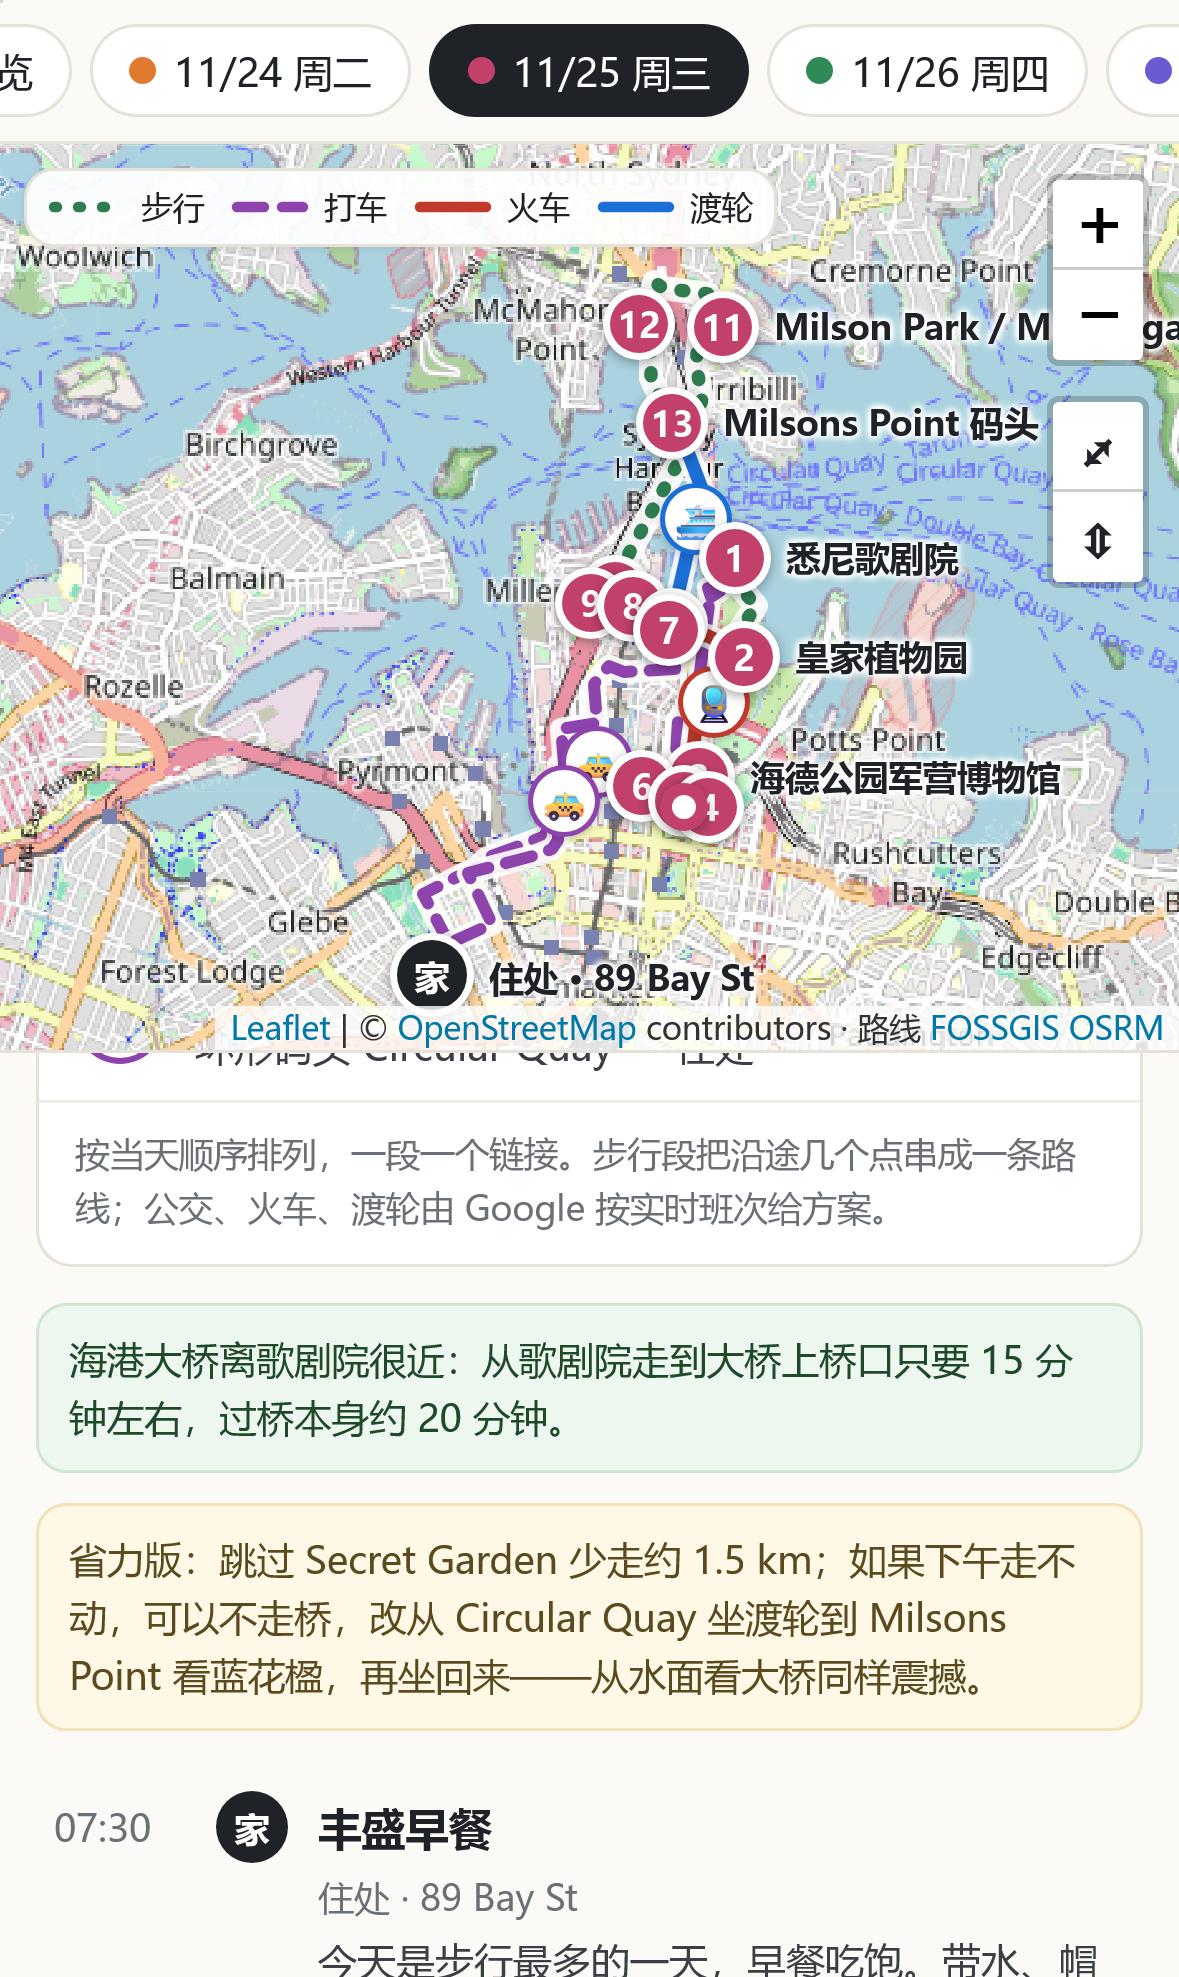
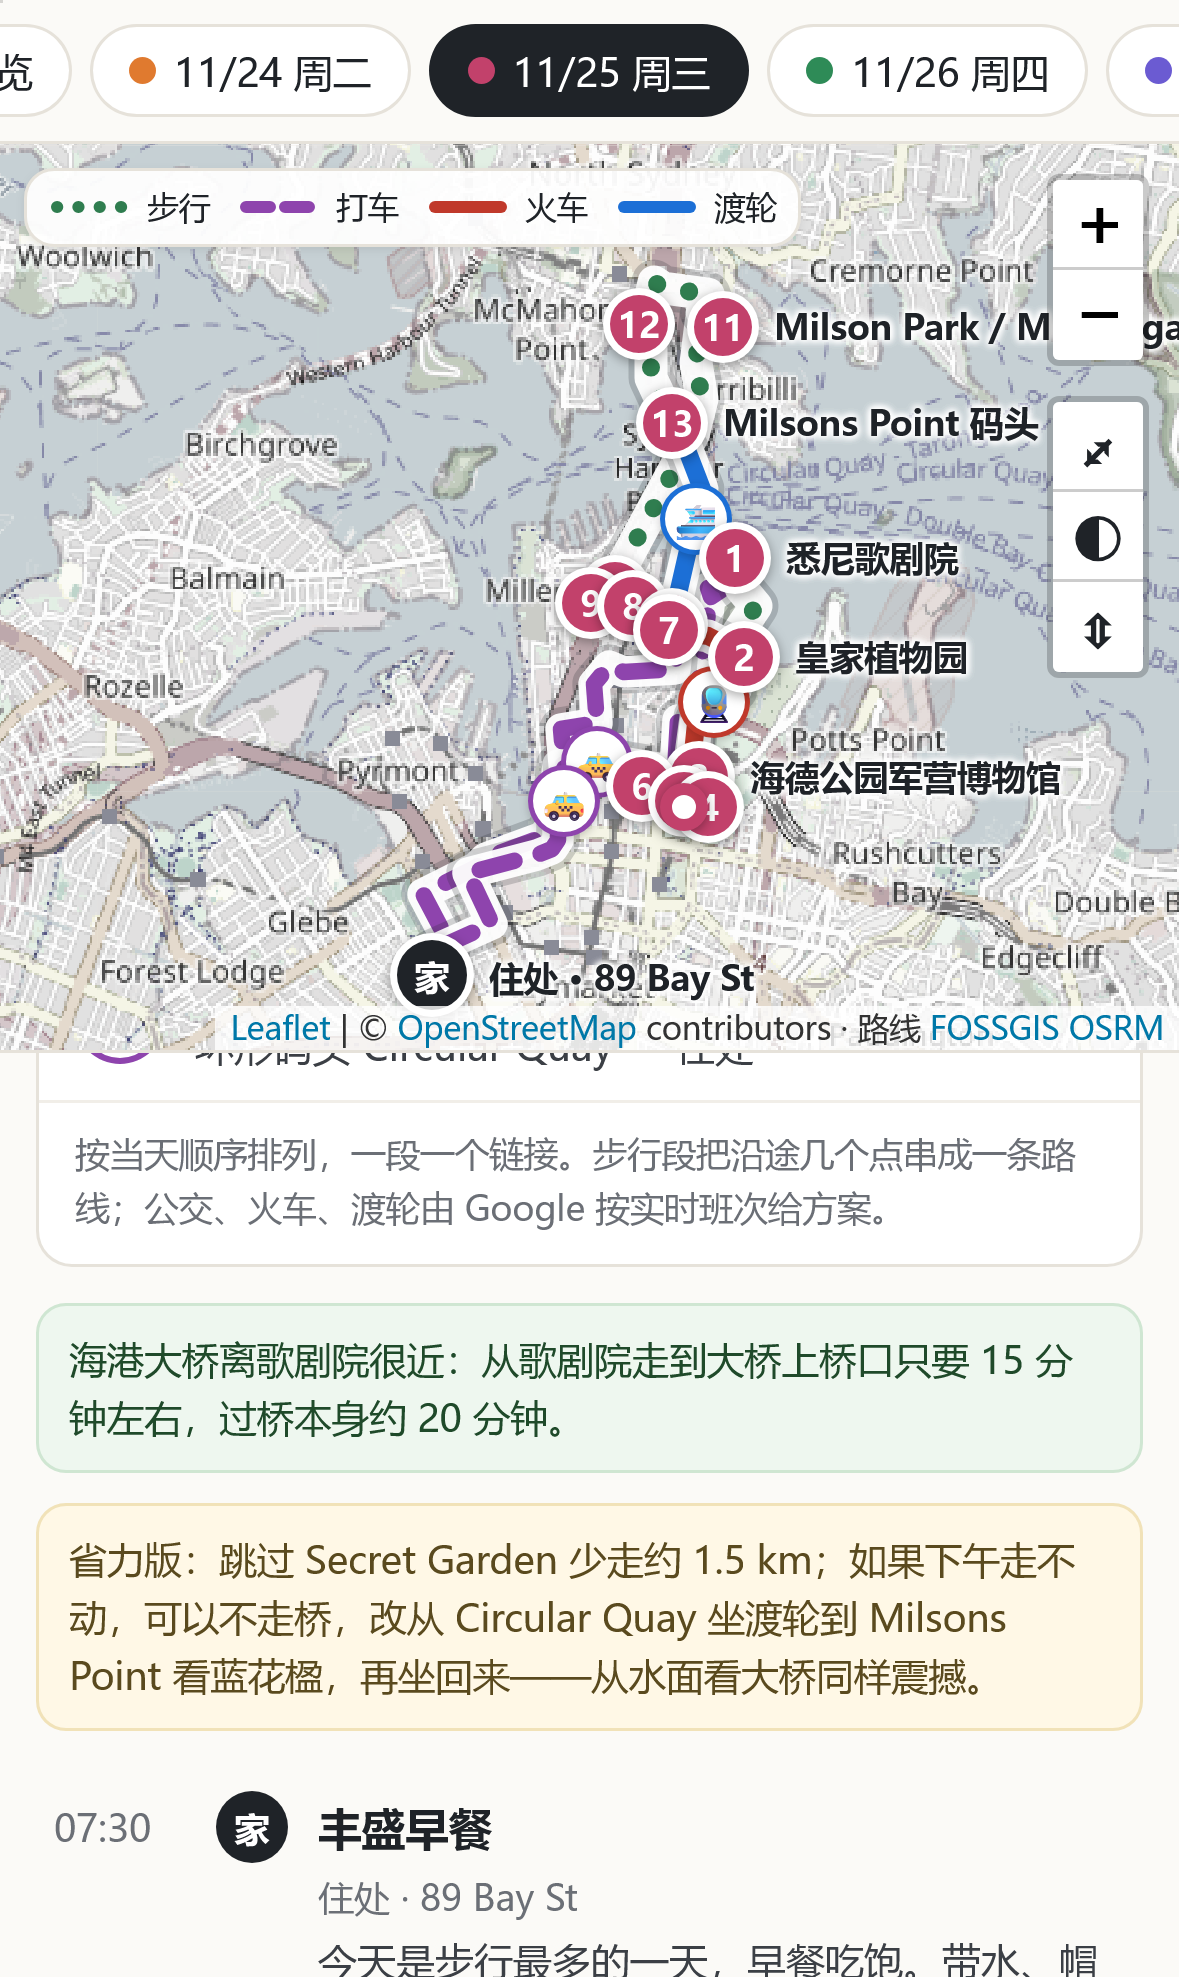
Make routes stand out: faded base map, casing and halo on routes
The OSM base map is busy, so routes were hard to follow. The base map
is now desaturated by default (a toggle restores the original colours
and is remembered per device), and every route is drawn as a dark halo,
a white casing and a thicker coloured line with larger walking dots.
Selecting a leg dims the others including their casings.

diff --git a/app.js b/app.js
@@ -40,17 +40,22 @@ const map=L.map(mapEl,{
   zoomSnap:.25,zoomDelta:1,wheelPxPerZoomLevel:90,tapTolerance:12,bounceAtZoomLimits:false
 }).setView([-33.872,151.205],13);
 map.attributionControl.setPrefix('<a href="https://leafletjs.com" target="_blank" rel="noopener">Leaflet</a>');
+// 底图默认淡化（降低饱和度和对比度），让路线更醒目；右上角 ◐ 按钮可切回原色，选择记在本机
+const lsGet=k=>{try{return localStorage.getItem(k)}catch(e){return null}};
+const lsSet=(k,v)=>{try{localStorage.setItem(k,v)}catch(e){}};
+mapwrap.classList.toggle("vivid",lsGet("basemap")==="vivid");
 L.tileLayer("https://tile.openstreetmap.org/{z}/{x}/{y}.png",{
-  maxZoom:19,
+  maxZoom:19,className:"basemap",
   attribution:'© <a href="https://www.openstreetmap.org/copyright" target="_blank" rel="noopener">OpenStreetMap</a> contributors · 路线 <a href="https://routing.openstreetmap.de/about.html" target="_blank" rel="noopener">FOSSGIS OSRM</a>'
 }).addTo(map);
 L.control.zoom({position:"topright",zoomInTitle:"放大",zoomOutTitle:"缩小"}).addTo(map);
 // 自定义按钮：显示当天全部 / 展开地图（手机）
 const Btns=L.Control.extend({options:{position:"topright"},onAdd(){
   const c=L.DomUtil.create("div","leaflet-bar");
-  c.innerHTML=`<a href="#" class="ctl ctl-fit" title="显示当天全部" aria-label="显示当天全部" role="button">⤢</a><a href="#" class="ctl ctl-exp" title="展开/收起地图" aria-label="展开地图" role="button">⇕</a>`;
+  c.innerHTML=`<a href="#" class="ctl ctl-fit" title="显示当天全部" aria-label="显示当天全部" role="button">⤢</a><a href="#" class="ctl ctl-base" title="底图：淡化 / 原色" aria-label="切换底图颜色" role="button">◐</a><a href="#" class="ctl ctl-exp" title="展开/收起地图" aria-label="展开地图" role="button">⇕</a>`;
   L.DomEvent.disableClickPropagation(c);
   c.querySelector(".ctl-fit").onclick=e=>{e.preventDefault();fitDay()};
+  c.querySelector(".ctl-base").onclick=e=>{e.preventDefault();const v=mapwrap.classList.toggle("vivid");lsSet("basemap",v?"vivid":"soft")};
   c.querySelector(".ctl-exp").onclick=e=>{e.preventDefault();toggleBig()};
   return c}});
 new Btns().addTo(map);
@@ -64,6 +69,14 @@ let legLines=[];  // {lg, d, latlngs, line, casing}
 mapwrap.addEventListener("touchmove",e=>{if(e.cancelable)e.preventDefault()},{passive:false});
 mapwrap.addEventListener("touchstart",e=>{if(e.touches.length>1&&e.cancelable)e.preventDefault()},{passive:false});
 
+// 地图上的线型（比 data.js 里的 MODES 更粗；虚线间距按粗细放大）。图例用同一套
+const LINE={walk:{w:6,dash:"0.1 11"},taxi:{w:5.5,dash:"12 9"},coach:{w:5.5,dash:"14 9"},bus:{w:6},lr:{w:6},train:{w:6},ferry:{w:6}};
+const lineStyle=mode=>({w:(LINE[mode]||{}).w||6,dash:(LINE[mode]||{}).dash||null});
+const BASE={halo:.2,casing:.95};
+function legOpacity(x,on){ // on: true 高亮 / false 压暗 / undefined 恢复
+  const k=on===false?.25:1;
+  x.line.setStyle({opacity:(x.schem?.65:1)*k});x.casing.setStyle({opacity:BASE.casing*k});x.halo.setStyle({opacity:on===true?.35:BASE.halo*k});
+}
 function markerHTML(cls,bg,txt,label){
   return `<div class="mk ${cls}"><div class="pin" style="background:${bg}">${txt}</div>${label?`<span class="lbl">${label}</span>`:""}</div>`;
 }
@@ -73,12 +86,14 @@ function render(){
   const days=single?[dayById(state.day)]:DAYS;
   days.forEach(d=>{
     legsOf(d).forEach(lg=>{
-      const m=MODES[lg.mode],info=legInfo(lg),ll=legPath(lg),schem=info&&info.kind==="schematic";
-      let casing=null;
-      if(single) casing=L.polyline(ll,{color:"#fff",weight:m.w+4,opacity:.9,interactive:false,lineCap:"round",lineJoin:"round"}).addTo(routeLayer);
-      const line=L.polyline(ll,{color:single?m.c:d.color,weight:single?m.w+.5:3,opacity:single?(schem?.6:1):.8,
-        dashArray:schem?"2 9":(m.dash||null),lineCap:"round",lineJoin:"round",interactive:false}).addTo(routeLayer);
-      legLines.push({lg,d,ll,line,casing});
+      const m=MODES[lg.mode],s=lineStyle(lg.mode),info=legInfo(lg),ll=legPath(lg),schem=info&&info.kind==="schematic";
+      const w=single?s.w:4;
+      const o={interactive:false,lineCap:"round",lineJoin:"round"};
+      // 三层：淡深色外晕 → 白色描边 → 彩色路线。压在任何颜色的街道/水面上都清楚
+      const halo=L.polyline(ll,{...o,color:"#1F2328",weight:w+(single?9:6),opacity:BASE.halo}).addTo(routeLayer);
+      const casing=L.polyline(ll,{...o,color:"#fff",weight:w+(single?5:3.5),opacity:BASE.casing}).addTo(routeLayer);
+      const line=L.polyline(ll,{...o,color:single?m.c:d.color,weight:w,opacity:schem?.65:1,dashArray:schem?"1 11":(single?s.dash:null)}).addTo(routeLayer);
+      legLines.push({lg,d,ll,line,casing,halo,schem});
       if(single&&lg.mode!=="walk"){
         const mid=midpoint(ll);
         L.marker(mid,{interactive:false,keyboard:false,icon:L.divIcon({className:"",iconSize:[24,24],iconAnchor:[12,12],html:`<div class="modeic" style="border-color:${m.c}">${m.ic}</div>`})}).addTo(iconLayer);
@@ -188,11 +203,11 @@ function openLegPop(x,at){
 }
 let hlTimer=0;
 function highlightLeg(x){
-  legLines.forEach(o=>o.line.setStyle({opacity:o===x?1:(state.day?.35:.25)}));
-  x.line.bringToFront();clearTimeout(hlTimer);
+  legLines.forEach(o=>legOpacity(o,o===x));
+  x.halo.bringToFront();x.casing.bringToFront();x.line.bringToFront();clearTimeout(hlTimer);
 }
 map.on("popupopen",()=>mapwrap.classList.add("popopen"));
-map.on("popupclose",()=>{mapwrap.classList.remove("popopen");legLines.forEach(o=>{const schem=(legInfo(o.lg)||{}).kind==="schematic";o.line.setStyle({opacity:state.day?(schem?.6:1):.8})});
+map.on("popupclose",()=>{mapwrap.classList.remove("popopen");legLines.forEach(o=>legOpacity(o));
   document.querySelectorAll(".leg.sel").forEach(e=>e.classList.remove("sel"))});
 const fmtDist=m=>m>=1000?(m/1000).toFixed(m>=10000?0:1)+" km":Math.round(m/10)*10+" m";
 
@@ -281,10 +296,11 @@ function renderTabs(){
 }
 function renderLegend(){
   const lg=document.getElementById("legend");
-  const sw=m=>`<svg width="26" height="8"><line x1="2" y1="4" x2="24" y2="4" stroke="${m.c}" stroke-width="3.5" stroke-dasharray="${m.dash}" stroke-linecap="round"/></svg>`;
+  const sw=(m,k)=>{const d=k==="walk"?"0.1 7":k==="taxi"||k==="coach"?"8 5":"";
+    return `<svg width="28" height="10"><line x1="3" y1="5" x2="25" y2="5" stroke="${m.c}" stroke-width="4" stroke-dasharray="${d}" stroke-linecap="round"/></svg>`};
   if(!state.day){lg.innerHTML=DAYS.map(d=>`<span><svg width="12" height="12"><circle cx="6" cy="6" r="5" fill="${d.color}"/></svg>${d.date}</span>`).join("");return}
   const used=new Set(legsOf(dayById(state.day)).map(l=>l.mode));
-  lg.innerHTML=Object.entries(MODES).filter(([k])=>used.has(k)).map(([k,m])=>`<span>${sw(m)}${m.n}</span>`).join("");
+  lg.innerHTML=Object.entries(MODES).filter(([k])=>used.has(k)).map(([k,m])=>`<span>${sw(m,k)}${m.n}</span>`).join("");
 }
 function go(id,push=true){
   state.day=id;state.sel=null;map.closePopup();renderTabs();renderContent();render();renderLegend();fitDay();

diff --git a/app.css b/app.css
@@ -32,6 +32,10 @@ nav.tabs::-webkit-scrollbar{display:none}
 .legend svg{display:block}
 #tip{position:absolute;z-index:1000;pointer-events:none;background:var(--ink);color:#fff;font-size:12px;padding:4px 8px;border-radius:6px;display:none;white-space:nowrap;max-width:calc(100% - 12px);overflow:hidden;text-overflow:ellipsis}
 .leaflet-control-attribution{font-size:10.5px}
+/* 底图淡化：路线和标记用原色画在上面，对比更强；.vivid 切回原色 */
+.basemap{filter:saturate(.28) contrast(.86) brightness(1.07);transition:filter .2s}
+.mapwrap.vivid .basemap{filter:none}
+.mapwrap.vivid .ctl-base{background:#F1EEE8}
 
 /* 标记 */
 .mk{position:relative;width:26px;height:26px}
